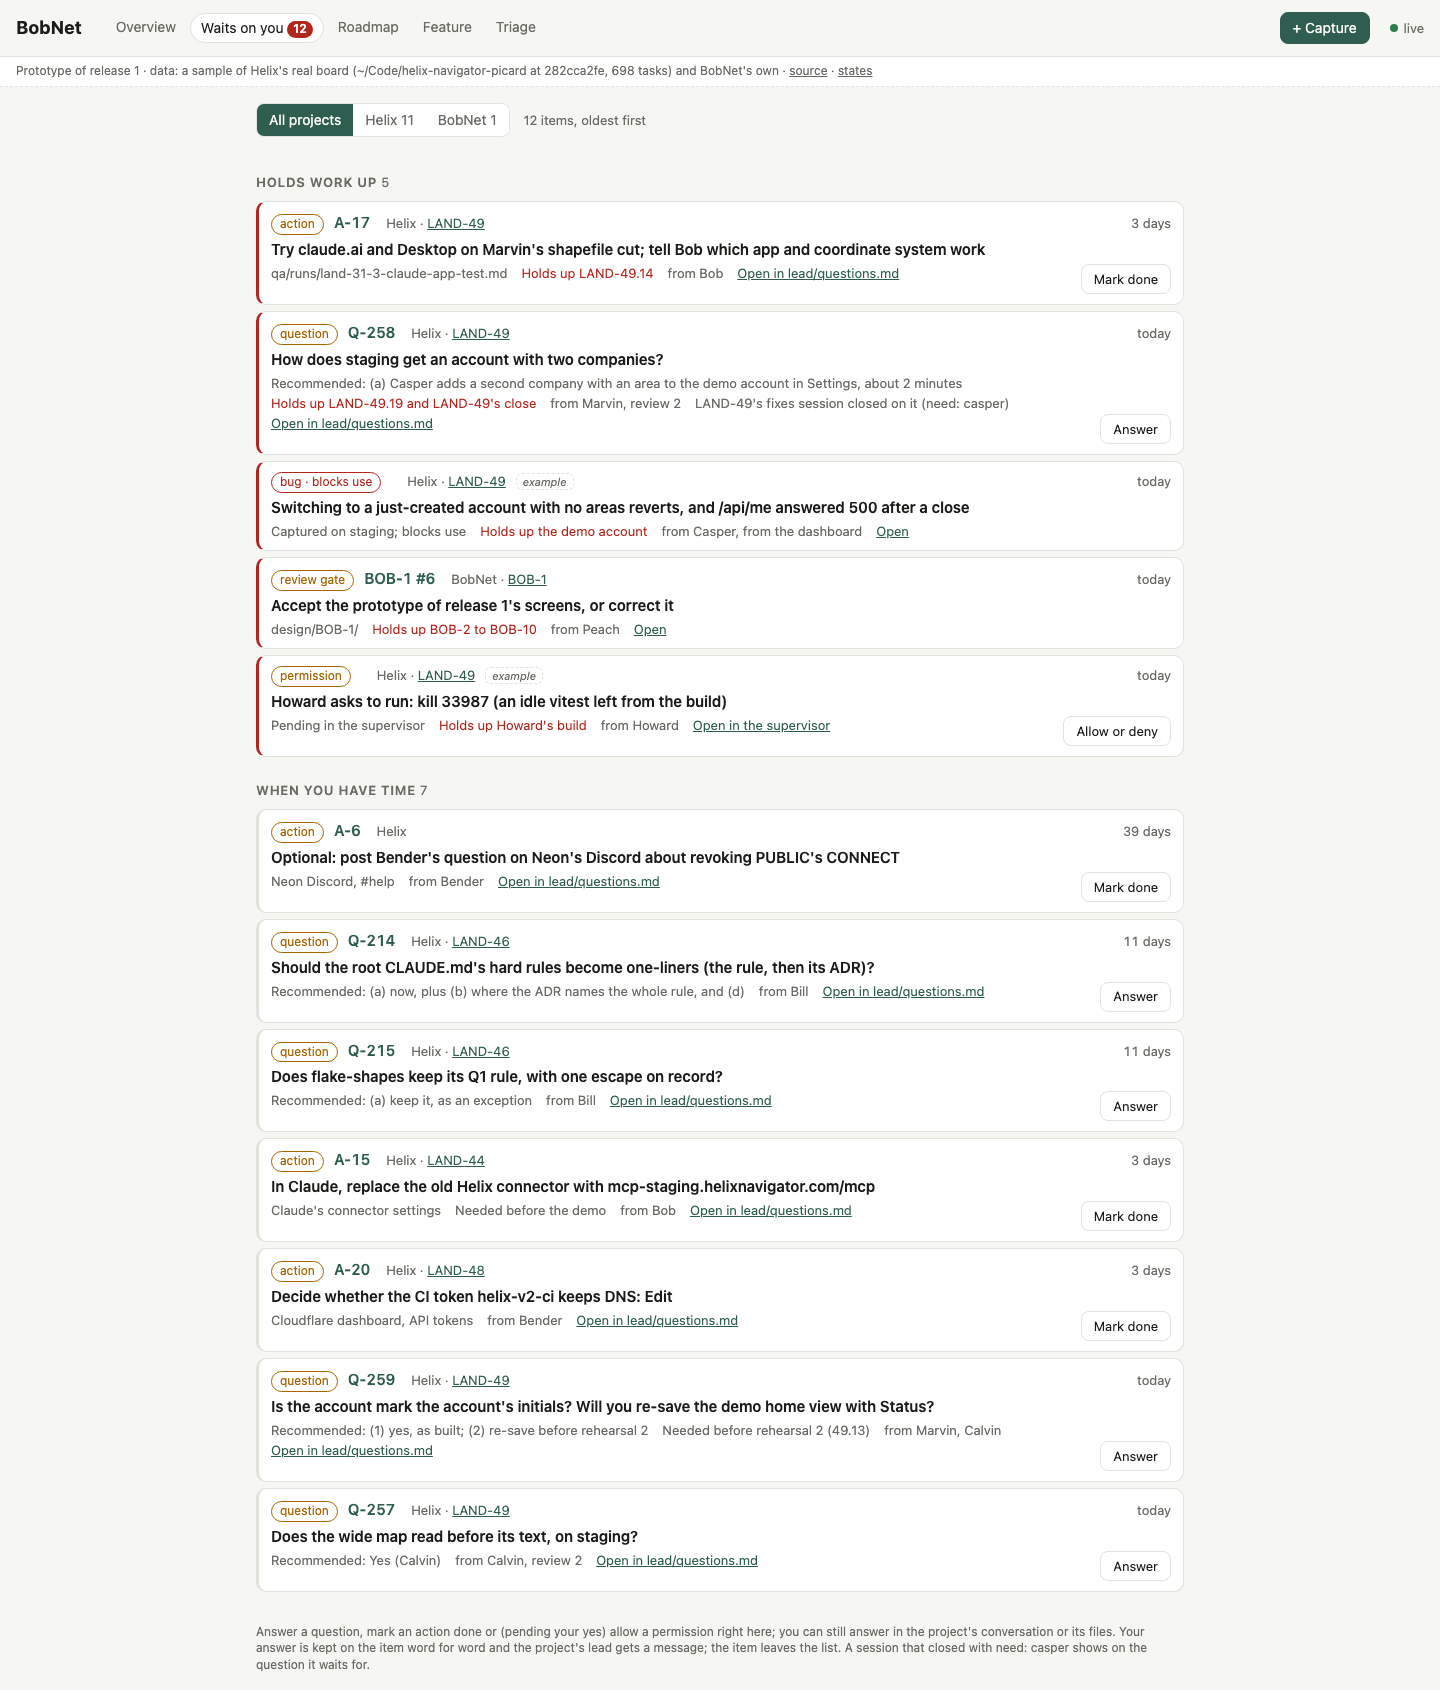
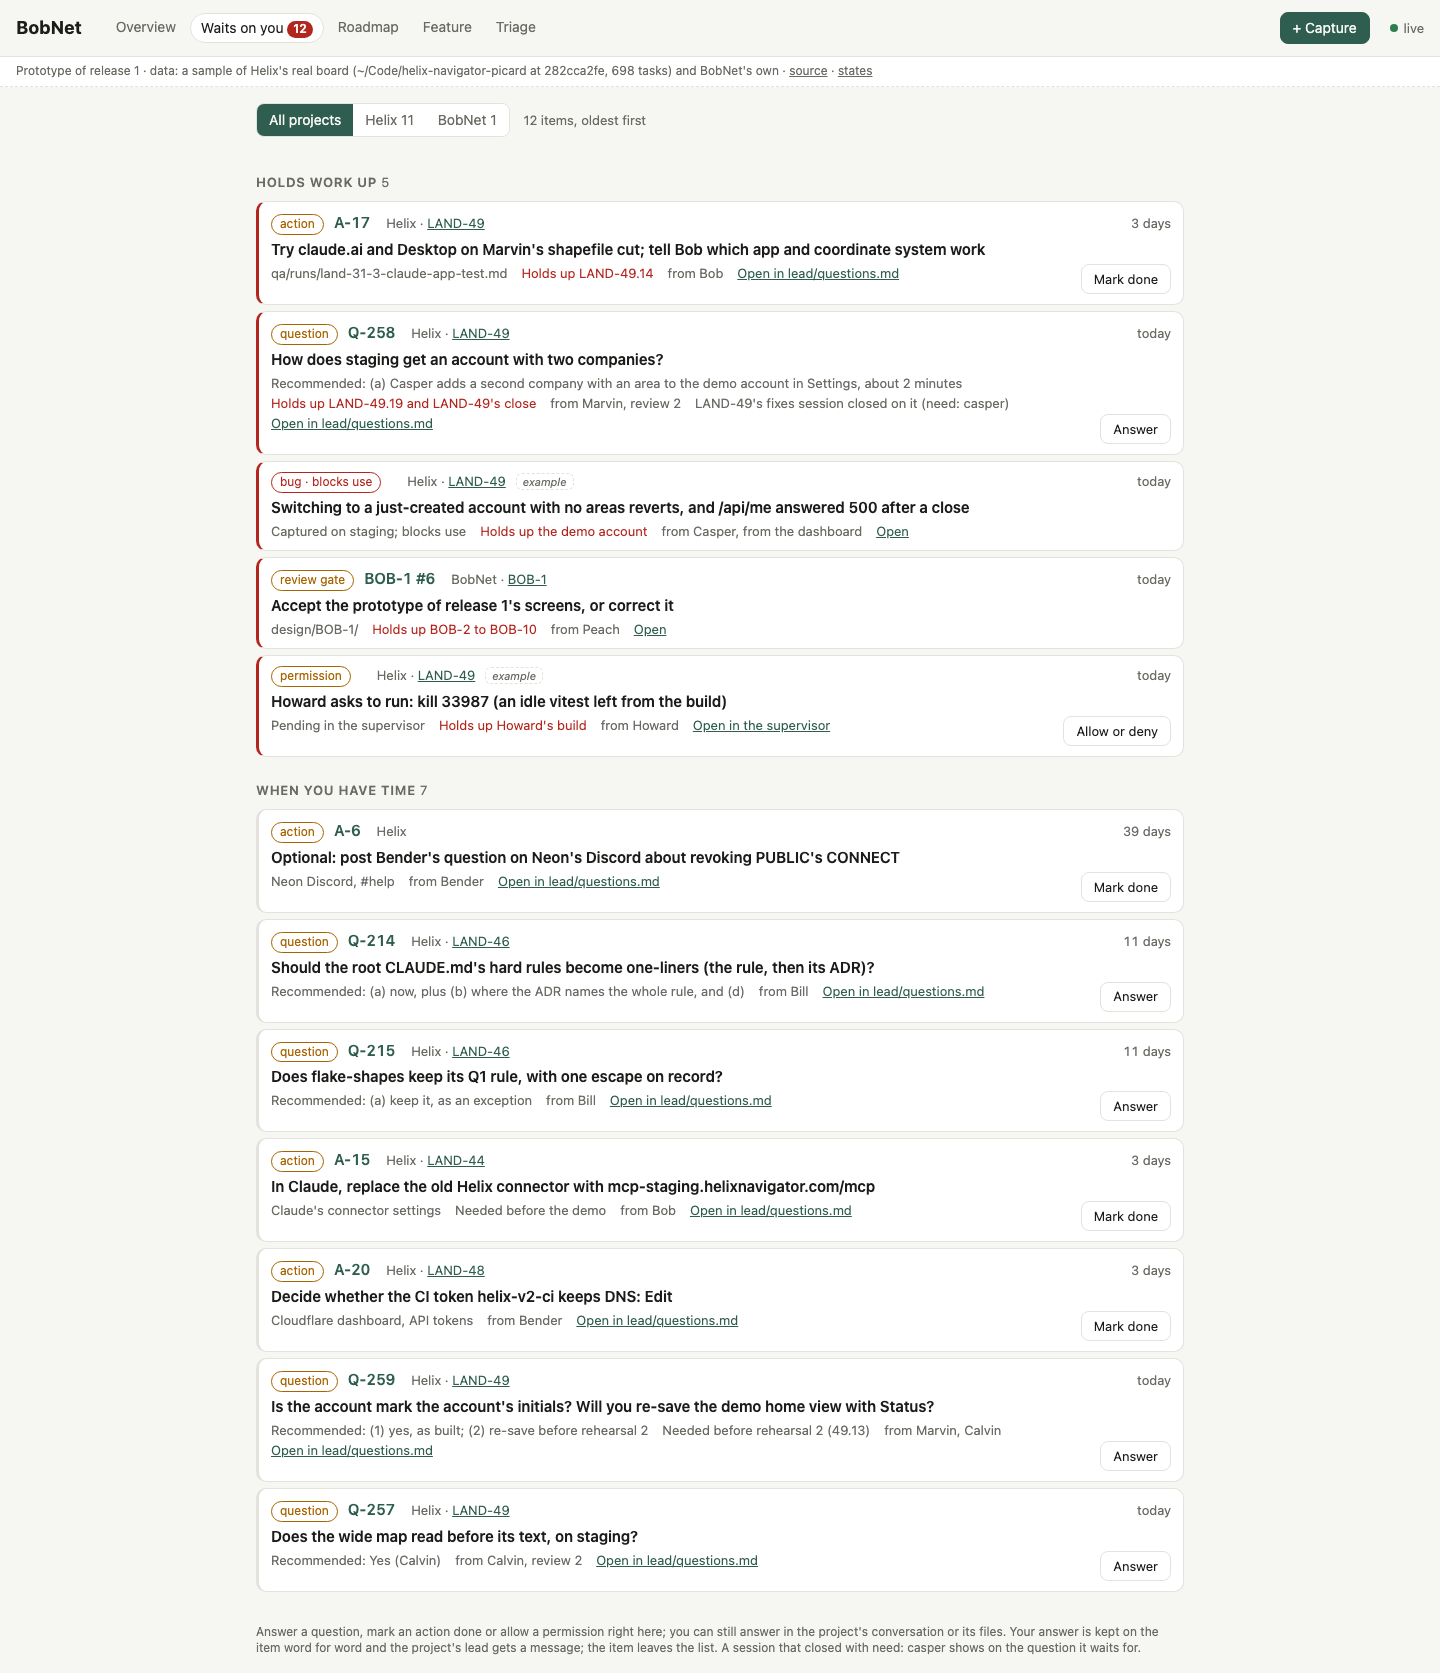
v2: design: BOB-1 round 3 close: permissions from the dashboard agreed, waiting on CI covers any CI

diff --git a/design/BOB-1/prototype/proto.js b/design/BOB-1/prototype/proto.js
@@ -76,7 +76,7 @@ function toast(text, undo) {
 
 const waitCount = () => state.waits.length;
 
-// ---------- Waiting on a run: CI (GitHub Actions) or the laptop's run slot (land, e2e) ----------
+// ---------- Waiting on a run: any CI running anywhere (GitHub Actions in the sample) or the laptop's run slot (land, e2e) ----------
 
 const mins = (iso) => Math.round((new Date(R.now.slice(0, 16)) - new Date(iso)) / 6e4);
 const runFor = (iso) => dur(iso, R.now.slice(0, 16));
@@ -623,8 +623,7 @@ function answerBox(w) {
     form.append(h("label", { class: "words" }, h("span", null, "Note (optional)"), h("textarea", { rows: 2, placeholder: "Anything they should know, e.g. which app worked." })),
       foot(h("button", { type: "submit", class: "primary" }, "Mark done")));
   } else {
-    form.append(h("div", { class: "pending-yes" }, h("b", null, "Pending Casper's yes"), " Allow and deny from here are designed but not agreed; until they are, this stays a link to the supervisor."),
-      h("label", { class: "words" }, h("span", null, `Note to ${w.from} (optional)`), h("textarea", { rows: 2, placeholder: "e.g. go ahead, it's idle" })),
+    form.append(h("label", { class: "words" }, h("span", null, `Note to ${w.from} (optional)`), h("textarea", { rows: 2, placeholder: "e.g. go ahead, it's idle" })),
       foot(h("button", { type: "submit", class: "danger", value: "deny" }, "Deny"), h("button", { type: "submit", class: "primary", value: "allow" }, "Allow")));
   }
   return form;
@@ -655,7 +654,7 @@ function waits() {
       rest.length ? h("ul", { class: "list waits" }, rest.map(waitItem)) : h("div", { class: "empty-card" }, "Nothing else waits on you.")),
     state.answered.length ? h("section", null, h("h2", null, "Answered from here today ", h("span", { class: "count" }, state.answered.length)),
       h("ul", { class: "list waits" }, state.answered.map(answeredItem))) : null,
-    h("p", { class: "note" }, "Answer a question, mark an action done or (pending your yes) allow a permission right here; you can still answer in the project's conversation or its files. Your answer is kept on the item word for word and the project's lead gets a message; the item leaves the list. A session that closed with need: casper shows on the question it waits for."),
+    h("p", { class: "note" }, "Answer a question, mark an action done or allow a permission right here; you can still answer in the project's conversation or its files. Your answer is kept on the item word for word and the project's lead gets a message; the item leaves the list. A session that closed with need: casper shows on the question it waits for."),
   ];
 }
 

diff --git a/design/BOB-1/prototype/proto.css b/design/BOB-1/prototype/proto.css
@@ -248,8 +248,6 @@ form.answer .words { display: grid; gap: 4px; font-size: 12px; color: var(--mute
 form.answer textarea { font: inherit; font-size: 16px; width: 100%; padding: 8px 10px; border-radius: 8px; border: 1px solid var(--line); background: var(--surface); color: var(--text); resize: vertical; }
 form.answer .foot { display: flex; flex-wrap: wrap; gap: 8px; align-items: center; justify-content: flex-end; }
 form.answer .who-gets { margin-right: auto; font-size: 12.5px; color: var(--muted); flex: 1 1 14em; }
-.pending-yes { font-size: 13px; padding: 6px 10px; border: 1px dashed var(--warn); border-radius: 8px; color: var(--muted); }
-.pending-yes b { color: var(--warn); margin-right: 4px; }
 @media (max-width: 600px) {
   form.answer .foot button { flex: 1; min-height: 44px; }
   form.answer .who-gets { flex-basis: 100%; }

diff --git a/design/BOB-1/notes.md b/design/BOB-1/notes.md
@@ -136,8 +136,7 @@ or corrects go in BOB-1's notes (BOB-1 #6), not here.
     by the button says where it goes: "Recorded on Q-258 as yours, word for word; Bob, Helix's lead, gets a
     message." The options are the question's own, from questions.md.
 42. **An action:** an optional note and **Mark done**. **A permission:** an optional note to the agent,
-    then **Deny** (danger) and **Allow**. A dashed amber box says **"Pending Casper's yes"**: until he
-    agrees, permissions stay a link to the supervisor.
+    then **Deny** (danger) and **Allow**. Casper said yes (round 3).
 43. After he sends, a toast with Undo says what was recorded and who got the message, and the item leaves
     its group. It shows under **Answered from here today** at the bottom of Waits on you: the question
     muted, the option he picked, his words in quotes exactly as typed, and "Bob, Helix's lead got a message".
@@ -160,8 +159,8 @@ or corrects go in BOB-1's notes (BOB-1 #6), not here.
     **failed** run turns red and stays until the agent moves on. An agent **queued** for the laptop's run
     slot gets a dashed line naming the holder ("Luigi holds it (e2e, 23 min)"). A run that passes leaves
     the line at once. All four are on `#states`.
-48. The two sources, as designed: **GitHub Actions** for CI (a workflow run for the agent's branch or
-    commit) and the supervisor's **run slot** for local runs (holder, label such as land or e2e, since).
+48. The two sources, as designed: **any CI running anywhere** for CI (Casper, round 3; the example is a
+    GitHub Actions workflow run for the agent's branch or commit, but any CI system counts) and the supervisor's **run slot** for local runs (holder, label such as land or e2e, since).
 
 ## Settled with Peach during this task (2026-11-13; in the requirements, eba0a15)
 
@@ -198,11 +197,11 @@ or corrects go in BOB-1's notes (BOB-1 #6), not here.
    waiting-on-casper.md ("This list shows and links"). Toad has to say where an answer is written: on the
    board record once a project has moved, but in Helix's lead/questions.md until BOB-9, which BobNet
    doesn't write today. Toad also has to say how the lead's message is sent. **Permissions** from the
-   dashboard are pending Casper's yes (Mario is asking him).
+   dashboard: Casper said yes (round 3).
 10. **Playwright isn't in packages/broker's devDependencies** (the brief said it was). The screenshots used
    helix-navigator-access's playwright-core 1.63.0, which matches the installed Chromium; nothing installed.
 11. **Which CI run an agent waits on** needs a link between them: the agent's last push (branch and commit)
-   matched to a GitHub Actions run, or the agent saying so at a checkpoint. "Usually about N min" needs the
+   matched to a CI run (any CI running anywhere, Casper round 3; GitHub Actions is the example), or the agent saying so at a checkpoint. "Usually about N min" needs the
    recent run times per workflow or slot label. Both are Toad's to place. In the sample, Marvin's run
    and Daisy's land are *example*.
 12. **Context per call needs each session's runs with their calls' context sizes.** Today's dashboard has

diff --git a/design/BOB-1/spec.md b/design/BOB-1/spec.md
@@ -93,7 +93,7 @@ It answers three questions in this order: what needs me, who is working on what 
   LAND-49 (Fixes 2: Marvin on 49.19, Howard on 49.14, waiting on his permission) is *example*.
 - **Waiting on a run** (notes 44-48): an agent waiting on CI or on the laptop's run slot shows a run line
   on its session card and in On it now. The line has a spinner, "Waiting on CI · 12 min", the run's name as
-  a link (`CI › e2e (staging) #4812 ↗`), the source (GitHub Actions, repo, branch, or the run slot's
+  a link (`CI › e2e (staging) #4812 ↗`), the source (any CI running anywhere, e.g. GitHub Actions, repo, branch; or the run slot's
   holder and command) and "usually about N min". It turns amber when running long (past 1.5× usual), red
   when the run failed, and dashed when the agent is queued for the slot. It leaves when the run passes.
 - **Context per call** (notes 36-39): every session card, running or closed, has **"Context per call · N
@@ -120,7 +120,7 @@ It answers three questions in this order: what needs me, who is working on what 
   the item, one at a time. A question shows its options as radio cards (the recommended one first,
   tagged, none picked) and a text box for his own words; **Send answer** works once there is an option or
   words. An action has an optional note and **Mark done**. A permission has an optional note to the agent
-  and **Deny** / **Allow**, under a dashed "Pending Casper's yes" box. The line by the buttons says it is
+  and **Deny** / **Allow** (Casper said yes, round 3). The line by the buttons says it is
   recorded as his words and who gets a message (the project's lead; for a permission, the agent). Sent: a
   toast with Undo, the item leaves its group, and it shows under **Answered from here today** with the
   option he picked and his words quoted exactly. On a phone the buttons are full width, 44 px tall.
